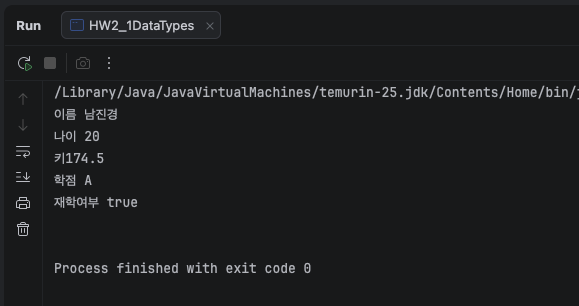
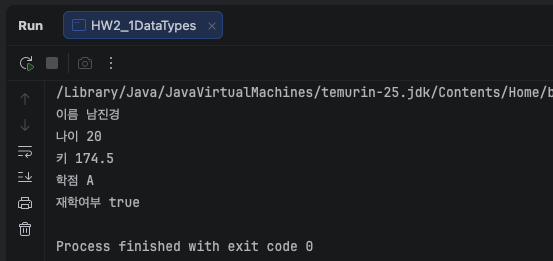
fix: 2주차 값 돌려 바꾸기 과제 로직 수정 및 피드백 반영

diff --git a/week02/HW2_5SwapValues.java b/week02/HW2_5SwapValues.java
@@ -3,12 +3,17 @@ package week02;
 public class HW2_5SwapValues {
     public static void main(String[] args) {
         // 2-5
-        char a = '홍';
-        char b = '길';
-        char c = '동';
-        a = b;
-        b = c;
-        c = a;
-        System.out.println("" + a + b + c);
+        String a = "홍";
+        String b = "길";
+        String c = "동";
+
+        System.out.println("전 " + "" + a + b + c);
+
+        String temp = c; // 마지막 값('동')을 temp에 백업
+        c = b;         // b의 값('길')을 c에 넣음
+        b = a;         // a의 값('홍')을 b에 넣음
+        a = temp;      // 백업해 둔 '동'을 a에 넣음
+
+        System.out.println("후 " + "" + a + b + c);
     }
 }

diff --git a/week02/HW2_1DataTypes.java b/week02/HW2_1DataTypes.java
@@ -6,9 +6,12 @@ public class HW2_1DataTypes {
         int age = 20;
         double height = 174.5;
         char grade = 'A';
-        boolean status = true;
+        boolean isEnrolled = true;
         String name = "남진경";
-        System.out.println("이름 " + name + "\n" + "나이 " + age + "\n" + "키" + height );
-        System.out.println("학점 " + grade + "\n" + "재학여부 " + status + "\n");
+        System.out.println("이름 " + name);
+        System.out.println("나이 " + age);
+        System.out.println("키 " + height);
+        System.out.println("학점 " + grade);
+        System.out.println("재학여부 " + isEnrolled);
     }
 }

diff --git a/week02/C2NamingRules.java b/week02/C2NamingRules.java
@@ -3,11 +3,11 @@ package week02;
 public class C2NamingRules {
     public static void main(String[] args) {
         // 도전 2
-        // String userName = "홍길동";
+         String userName = "홍길동";
         // int 2age = 20;
         // String my-name = "홍길동";
         // float int = 3.14f;
-        // long Age = 10L;
-        // int MAX_SIZE = 100;
+         long Age = 10L;
+         int MAX_SIZE = 100;
     }
 }

diff --git a/week02/C1CommonMistakes.java b/week02/C1CommonMistakes.java
@@ -8,9 +8,9 @@ public class C1CommonMistakes {
         // long n = 10000000000;
         // float f = 3.14;
 
-        char c = 'A';
-        String s = "abc";
-        long n = 10000000000L;
-        float f = 3.14f;
+        char c = 'A'; // ""를 ''로 수정
+        String s = "abc"; // ''을 ""로 수정
+        long n = 10000000000L; // 뒤에 L 붙임
+        float f = 3.14f; // 뒤에 f 붙임
     }
 }

diff --git a/week02/HW2_2IntOverflow.java b/week02/HW2_2IntOverflow.java
@@ -6,5 +6,9 @@ public class HW2_2IntOverflow {
         // int value = 2200000000;
         long value = 2200000000L;
         System.out.println(value);
+
+        // 오버플로우
+        int max = 2147483647;
+        System.out.println(max + 1);
     }
 }

diff --git a/week02/README.md b/week02/README.md
@@ -1,8 +1,8 @@
 # Week 02
-
+***
 ## 학습 기간
 2026-09-07 ~ 2026-09-14
-
+***
 ## 과제 내용
 ### 2-1. 자료형 5개
 아래 다섯 개를 각각 알맞은 자료형으로 선언하고 출력하세요.   
@@ -16,36 +16,79 @@
 ```
 #### - 실행 결과
 ![2-1 실행 결과](./images/2-1.png)
+***
 
 ### 2-2. int 의 한계
 int 변수에 21억보다 큰 수를 넣고 실행하세요.   
 오류 메시지를 그대로 적고, 어떻게 고쳤는지 쓰세요.
 
 #### - 실행 결과
-int value = 2200000000 을 지정 하였고 아래와 같이 오류가 발생 (6줄)   
+int value = 2200000000 을 지정 하였고 아래와 같이 오류가 발생  
 long value = 2200000000L; 로 수정하여 오류 해결
 
+```
+java: integer number too large (HW2_2IntOverflow.java:6)
+```
+
 ![2-2 실행 결과](./images/2-2.png)
+
+```
+int    -2,147,483,648  ~  2,147,483,647     약 ± 21억   
+long   훨씬 크다                              약 ± 922경
+```
+- 돈이나 개수를 다룰 때는 처음부터 long 사용
+***
 
 ### 2-3. char 에 두 글자
 char 변수에 글자 두 개를 넣어 보고 오류 메시지를 적으세요.   
 char 와 String 이 뭐가 다른지 한 줄로 정리하세요.
-
-오류 메시지 아래 실행 결과 이미지 참고 (6줄)   
+#### - 오류 메시지
+```
+java: unclosed character literal (HW2_3CharVsString.java:6)
+java: unclosed character literal (HW2_3CharVsString.java:6)
+java: not a statement (HW2_3CharVsString.java:6)
+```
 char는 ' ' 안에 한 글자만을 담고 String은 " " 안에 여러 문자를 담음
 
 #### - 실행 결과
 ![2-3 실행 결과](./images/2-3.png)
 
+#### - 추가 설명
+'ab'와 같이 글자가 두 개 이상 들어가면, 자바 컴파일러는 첫 번째 글자 뒤에 바로 홑따옴표(')가 닫힐 것으로 예상함.   
+예상치 못한 b와 세미콜론(;)이 나타나면서 문자 리터럴이 제대로 끝나지 않았다는 뜻의 unclosed character literal 오류가 발생함.     
+
+1. char는 숫자 (번호표 상자)   
+   자바에서 char(문자형)는 화면에 글자처럼 보이지만, 컴퓨터 내부에는 그 글자의 번호표(숫자)로 저장. 
+예를 들어 영어 대문자 'A'는 컴퓨터 내부에서 65번이라는 숫자로 관리됨.   
+그래서 'A' + 1을 하면 글자가 더해지는 게 아니라 숫자 65 + 1이 되어서 66이 될 수 있고, 반대로 66이라는 숫자를 char 상자에 넣으면 컴퓨터가 알아서 66번 번호표에 해당하는 글자('B')를 꺼내 보여주는 것.
+
+2. char와 String의 결정적 차이
+- char (작은따옴표 ' ')
+번호표 딱 1개만 들어가는 고정 크기의 상자. 
+글자 딱 한 글자만 담을 수 있어서 크기가 고정.
+
+- String (큰따옴표 " ")    
+char 상자 여러 개를 기차처럼 줄줄이 엮어 놓은 묶음(객체).    
+글자가 한 글자든, 열 글자든, 문장이 통째로 들어가든 길이가 자유롭다는 특징이 있음.   
+
+3. 따옴표가 다른 이유   
+- 작은따옴표(' '): "이 안에는 딱 하나의 번호표(char)만 들어간다"는 것을 컴퓨터에게 알려주는 표시. (예: 'A', '홍')   
+- 큰따옴표(" "): "이 안에는 여러 개의 글자가 엮여 있는 문자열(String 묶음)이다"라는 것을 알려주는 표시. (예: "A", "홍길동", "Hello")   
+***
+
 ### 2-4. final
 final로 선언한 변수의 값을 바꿔 보고 오류 메시지를 적으세요.   
 final 이 왜 필요한지 한 줄로 쓰세요.
 
-오류 메시지 아래 실행 결과 이미지 참고 (7줄)    
+#### - 오류 메시지 
+```
+java: cannot assign a value to final variable MAX (HW2_4FinalExample.java:7) 
+```
 final은 값이 바뀌면 안되는 중요한 데이터나 값을 고정하여 안정성을 높이고 실수를 방지
 
 #### - 실행 결과
 ![2-4 실행 결과](./images/2-4.png)
+***
 
 ### 2-5. 값 돌려 바꾸기
 변수 3개의 값을 서로 돌려 바꾸세요.   
@@ -61,6 +104,24 @@ a -> b,  b -> c,  c -> a
 
 ![2-5-2 실행 결과](./images/2-5-2.png)
 
+#### - 오답 재실행
+```java
+String a = "홍";
+String b = "길";
+String c = "동";
+
+System.out.println("전 " + "" + a + b + c);
+
+String temp = c; // 마지막 값('동')을 temp에 백업
+c = b;         // b의 값('길')을 c에 넣음
+b = a;         // a의 값('홍')을 b에 넣음
+a = temp;      // 백업해 둔 '동'을 a에 넣음
+
+System.out.println("후 " + "" + a + b + c);
+```
+![2-5-3 실행 결과](./images/2-5-3.png)
+***
+
 ## 도전 과제
 ### 도전 1. 흔한 실수 4개 직접 내보기
 아래 네 줄을 그대로 쳐서 오류를 확인하고, 각각 어떻게 고치는지 적으세요.   
@@ -71,34 +132,91 @@ a -> b,  b -> c,  c -> a
   long n = 10000000000;
   float f = 3.14;
 ```
+#### - 오류 메시지 
+```
+java: unclosed character literal (C1CommonMistakes.java:7)
+java: unclosed character literal (C1CommonMistakes.java:7)
+java: not a statement (C1CommonMistakes.java:7)
+java: integer number too large (C1CommonMistakes.java:8)
+```
+
 #### - 실행 결과
 ![도전 1 실행 결과](./images/challenge-1.png)
 
-오류 수정 방법
+#### - 오류 수정 방법
 ``` java
-char c = 'A'; // ''를 ""로 수정
+char c = 'A'; // ""를 ''로 수정
 String s = "abc"; // ''을 ""로 수정
 long n = 10000000000L; // 뒤에 L 붙임
 float f = 3.14f; // 뒤에 f 붙임
 ```
+#### - 추가설명 
+
+- Line 7 관련 에러 (java: unclosed character literal, java: not a statement)   
+  - 원인: 자바는 작은따옴표(')를 오직 한 글자(char)를 감쌀 때만 허용.    
+그런데 String s = 'abc';처럼 여러 글자를 작은따옴표로 묶으면, 자바는 중간에 따옴표가 닫히지 않은 줄 알거나(unclosed character literal),    
+문법 구조가 완전히 깨져서 온전한 명령문으로 인식하지 못하게 됨(not a statement).   
+  - 올바른 형태: char에는 작은따옴표로 한 글자('A'), String에는 큰따옴표로 문자열("abc")을 넣어야 함.
+
+- Line 8 관련 에러 (java: integer number too large)   
+  - 원인: 자바는 코드에 적힌 정수 숫자(예: 10000000000)를 기본적으로 int 타입으로 간주함.   
+하지만 100억이라는 숫자는 int가 담을 수 있는 최대 크기(약 21억)를 훨씬 초과하기 때문에, 컴파일러가 "숫자가 너무 커서 int에 담을 수 없다"며 에러를 발생시킴. 
+  - 해결 방법: 숫자 뒤에 대소문자 L(또는 l)을 붙여서 long n = 10000000000L;로 적어주어야 함.
+
+- float f = 3.14; 에러가 안 나온 이유   
+  - 자바 컴파일러는 위에서부터 차례대로 에러를 검사하다가 심각한 문법/타입 에러(Line 7, 8)를 만나면 컴파일을 중단하거나 뒤쪽 코드는 제대로 검사하지 못함. 
+  - 만약 7, 8번 줄의 에러를 먼저 고치고 실행하면, float f = 3.14;에서도 incompatible types: possible lossy conversion from double to float (더블형을 플롯형에 넣으면 데이터 손실이 날 수 있다는 에러)가 추가로 발생하게 됨.   
+
+#### - 7, 8 줄 주석 처리 후 나온 결과
+```java
+ char c = "A";
+ // String s = 'abc';
+ // long n = 10000000000;
+ float f = 3.14;
+```
+```
+java: incompatible types: java.lang.String cannot be converted to char (C1CommonMistakes.java:6)
+java: incompatible types: possible lossy conversion from double to float (C1CommonMistakes.java:9)
+```
+
+![도전 1 실행 결과](./images/challenge-1-1.png)
+***
 
 ### 도전 2. 변수 이름 규칙
 아래 이름들을 직접 선언해 보고, 안 되는 것과 그 이유를 적으세요.
 ```
  userName    2age    my-name    int    Age    MAX_SIZE
 ```
+#### - 오류 메시지
+```
+java: not a statement (C2NamingRules.java:7)
+java: ';' expected (C2NamingRules.java:7)
+java: ';' expected (C2NamingRules.java:8)
+java: not a statement (C2NamingRules.java:9)
+java: ';' expected (C2NamingRules.java:9)
+java: not a statement (C2NamingRules.java:9)
+java: ';' expected (C2NamingRules.java:9)
+```
 #### - 실행 결과
 ![도전 2 실행 결과](./images/challenge-2.png)
 
-설명
+#### - 설명
 ```java
 String userName = "홍길동"; // 변수 선언 가능
 int 2age = 20; // 변수명이 숫자로 시작 할 수 없음
 String my-name = "홍길동"; // 변수명에 - 을 포함 할 수 없음
 float int = 3.14f; // 변수명에 예약어 사용할 수 없음
-long Age = 10L; // 변수 선언 가능
-int MAX_SIZE = 100; // 변수 선언가능
+long Age = 10L; // 변수 선언 가능하나 대문자로 시작하면 클래스로 혼돈될 수 있어 사용하지 않음
+int MAX_SIZE = 100; // 변수 선언가능하나 앞에 final을 붙여야함
 ```
+| 구분   | 예시               | 설명                              |
+|--------|--------------------|-----------------------------------|
+| 클래스 | Study, ReportCard  | 첫 글자 대문자                    |
+| 변수   | userName, maxSize  | 첫 글자 소문자                    | 
+| 상수   | MAX_SIZE           | 전부 대문자 + 밑줄, final 과 함께 | 
+| 메서드 | getName, printCard | 첫 글자 소문자, 동사로 시작       | 
+
+***
 
 ### 도전 3. 성적표 출력
 - 이름, 국어, 영어, 수학을 변수에 넣고 총점과 평균을 계산해 출력하세요.   
@@ -120,6 +238,7 @@ double avg = total / SUBJECT_COUNT;
 ```
 #### - 실행 결과
 ![도전 3 실행 결과](./images/challenge-3.png)
+***
 
 ## 제출 전 확인
 - [x] public static void main 이 맞는가
